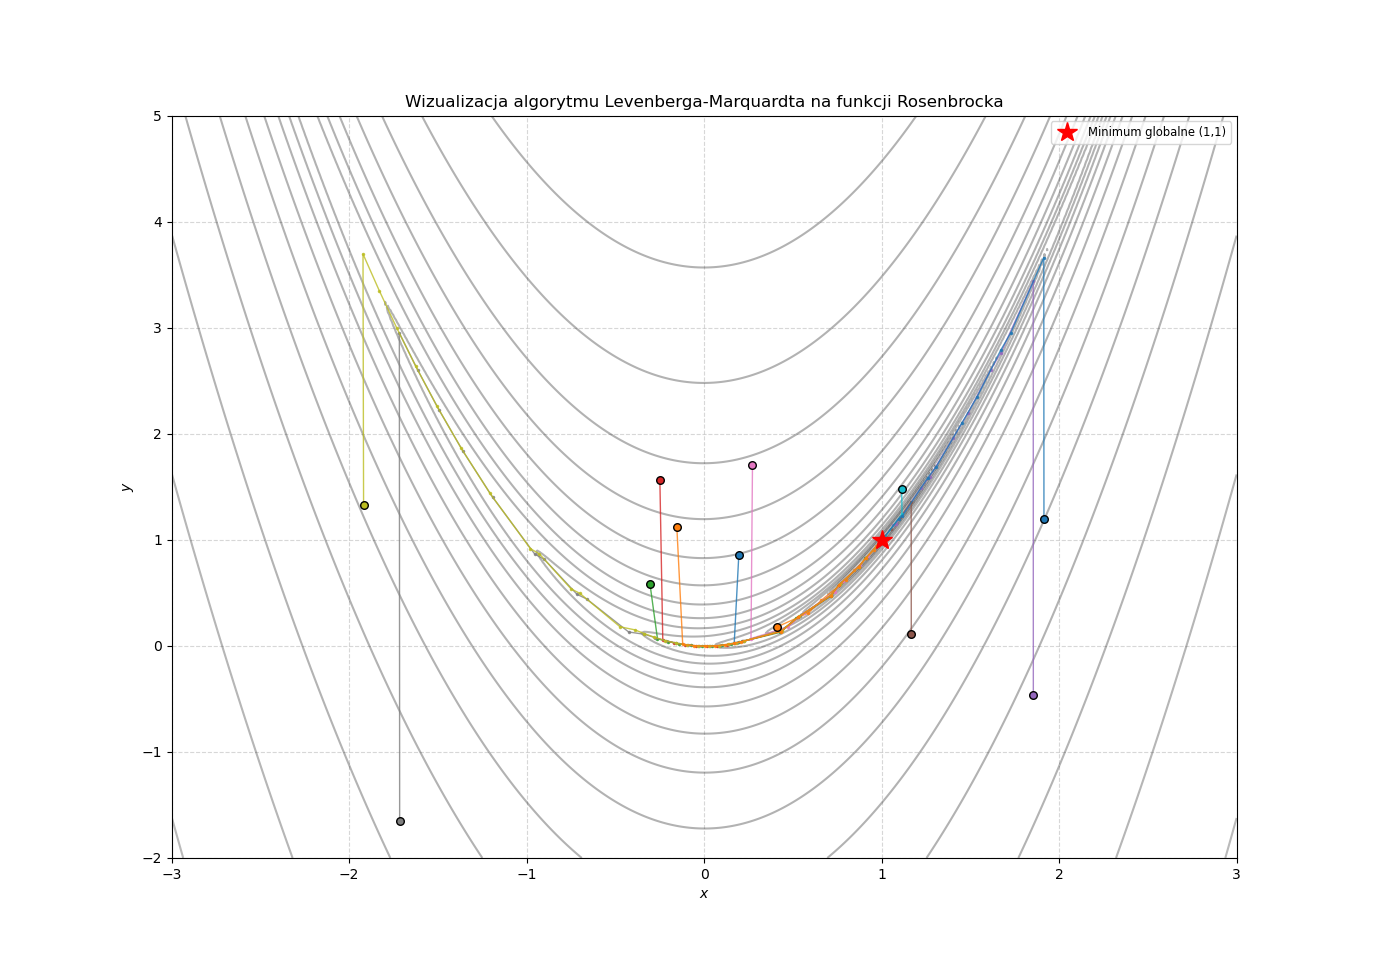
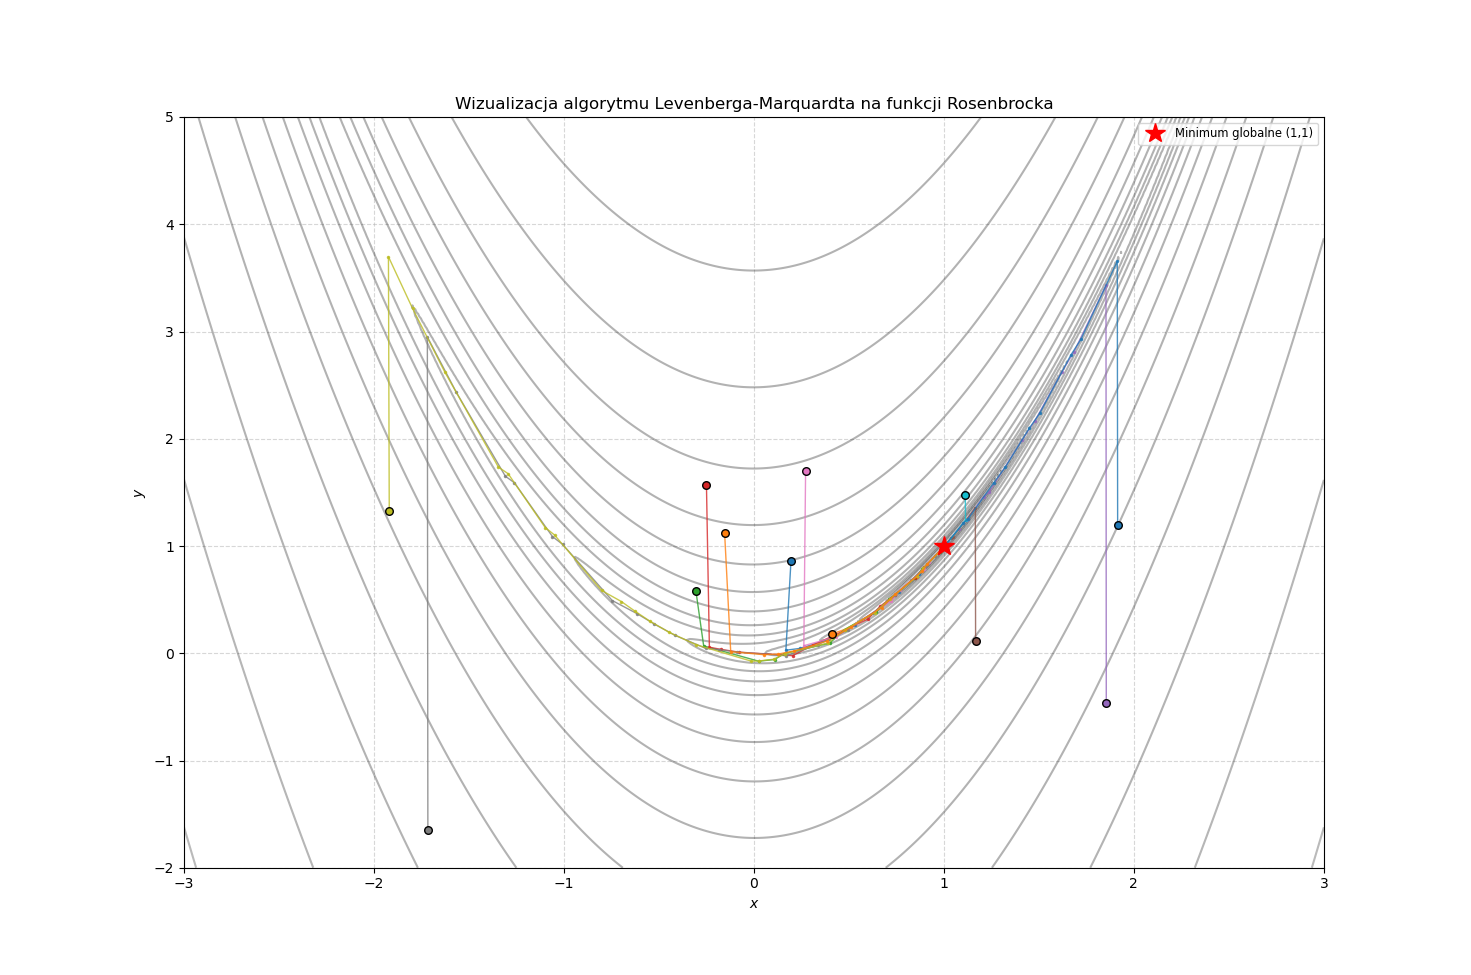
revert(numerki/num22): revert better damping

diff --git a/numerki/num22/main.py b/numerki/num22/main.py
@@ -24,8 +24,8 @@ def hessian(x: vector, lam: num) -> matrix:
     h_22 = 200
     return np.array(
         [
-            [lam + h_11, h_12],
-            [h_12, lam + h_22],
+            [(1 + lam) * h_11, h_12],
+            [h_12, (1 + lam) * h_22],
         ],
         dtype=num,
     )
